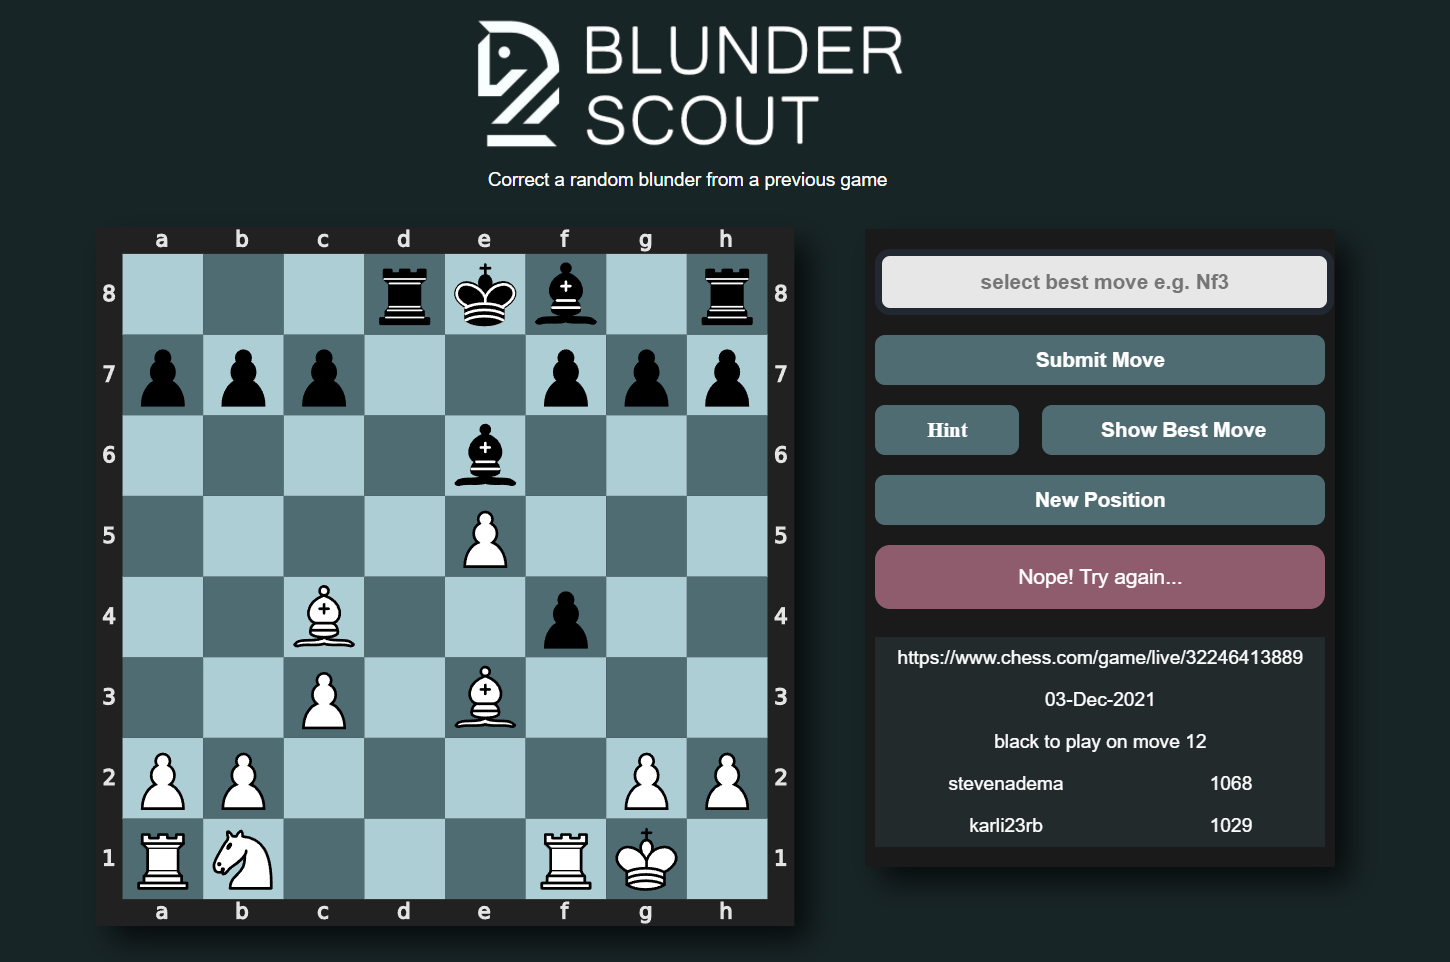
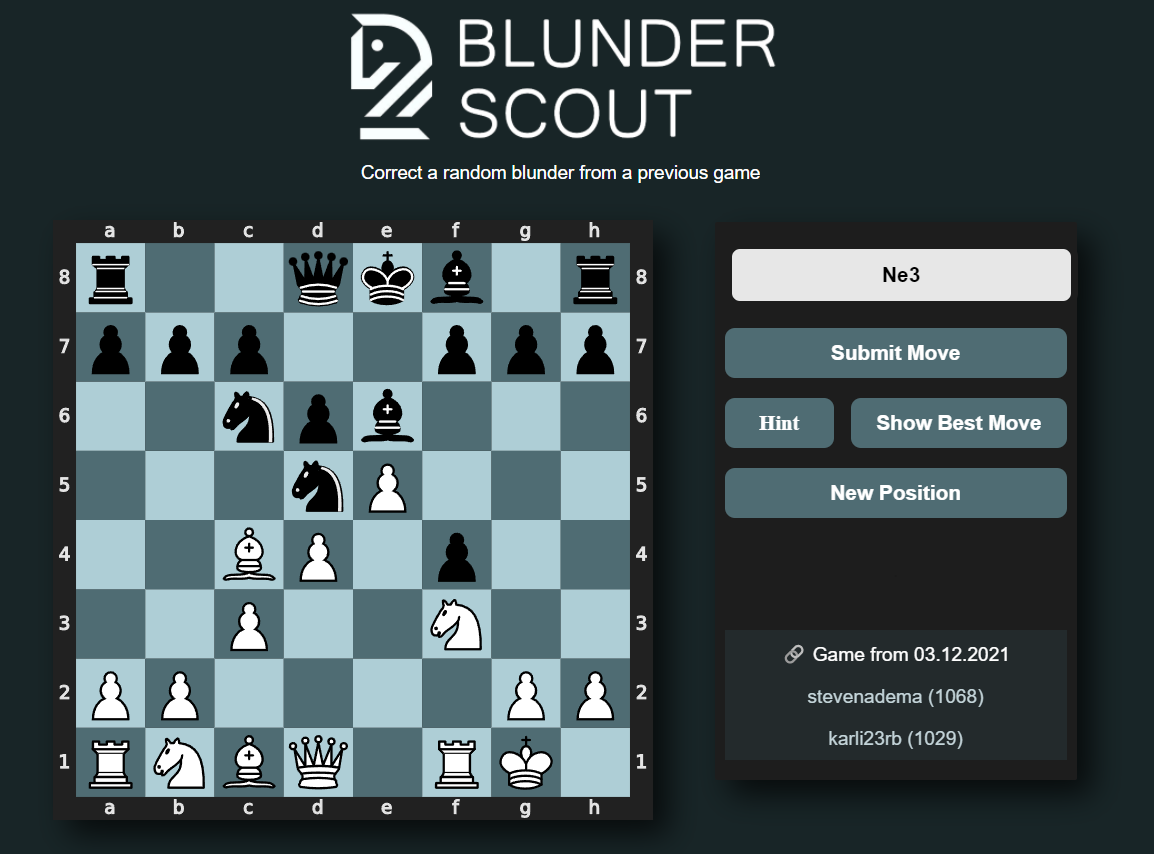
hint and best move added

diff --git a/templates/blunders.html b/templates/blunders.html
@@ -25,8 +25,8 @@ var svg = '{{ svg }}';
             <form action="blunders" method="post" class="form_div" autocomplete="off">
                 <input type="text" id="name_input" name="name_input" placeholder="select best move e.g. Nf3" autocomplete="off">
                 <input type="button" class="button button_submit" value="Submit Move" id="move_submit" onclick="showDiv()"/>
-                <input type="button" class="button button_hint" value="Hint">
-                <input type="button" class="button button_best_move" value="Show Best Move">
+                <input type="button" class="button button_hint" value="Hint" onclick="showHint()">
+                <input type="button" class="button button_best_move" value="Show Best Move" onclick="showBestMove()">
                 <input type="submit" class="button button_new" value="New Position" id="greet">
                 <div style="display:block;" id="temp">.</div>
                 <div style="display:none;" id="hidden_div_correct">Correct! Well done :)</div>
@@ -35,33 +35,46 @@ var svg = '{{ svg }}';
             <br>
         </div>
 <div class="div01"></div>
-<div class="div1"><a href="{{ url }}" target="_blank">{{ url }}</a></div>
-<div class="div2">{{ date }}</div>
-<div class="div3">black to play on move {{ move_no }}</div>
-<div class="div4">{{ user }}</div>
-<div class="div5">{{ user_rating }}</div>
-<div class="div6">{{ opp }}</div>
-<div class="div7">{{ opp_rating }}</div>
+<div class="div1"><a href="{{ url }}" target="_blank">🔗 Game from {{ date }}</a></div>
+<div class="div4">{{ user }} ({{ user_rating }})</div>
+<div class="div6">{{ opp }} ({{ opp_rating }})</div>
 </div>
         </div>
     </div>
     <div class="container3">
 
 <script>
+function onLoad() {
+    document.getElementsByClassName("arrow")[0].style.opacity="0";
+    document.getElementsByClassName("arrow")[1].style.opacity="0";
+}
+
 function showDiv() { 
    let bm = {{ best_move|tojson }};
    let guess = document.getElementById('name_input').value;
-    console.log(guess)
-    console.log(bm)
    if (guess == bm) {
-   document.getElementById('hidden_div_correct').style.display = "block";
-   document.getElementById('hidden_div_wrong').style.display = "none";
-   document.getElementById('temp').style.display = "none";
+        document.getElementById('hidden_div_correct').style.display = "block";
+        document.getElementById('hidden_div_wrong').style.display = "none";
+        document.getElementById('temp').style.display = "none";
    } else{
-   document.getElementById('hidden_div_wrong').style.display = "block";
-   document.getElementById('hidden_div_correct').style.display = "none";
-   document.getElementById('temp').style.display = "none";
+        document.getElementById('hidden_div_wrong').style.display = "block";
+        document.getElementById('hidden_div_correct').style.display = "none";
+        document.getElementById('temp').style.display = "none";
    }
+}
+
+function showHint(){
+    let best_move = {{ best_move_uci|tojson }};
+    console.log(best_move);
+    let best_move_square = best_move.substring(0, 2);
+    console.log(best_move_square);
+
+    document.getElementsByClassName(best_move_square)[0].style.fill="#8f5c6d";
+}
+
+function showBestMove() {
+    document.getElementsByClassName("arrow")[0].style.opacity="0.6";
+    document.getElementsByClassName("arrow")[1].style.opacity="0.6";
 }
 
 </script>

diff --git a/static/css/main.css b/static/css/main.css
@@ -64,7 +64,7 @@ input {
   font-size: 1.3em;
   text-align: center;
   display: block;
-  border: solid 7px #222831;
+  border: solid 7px #1d1d1d;
   background-color: #e7e7e7;
   font-weight: bold;
 }
@@ -91,7 +91,7 @@ input {
 }
 
 #temp {
-    background-color: #1a1a1a;
+    background-color: #1d1d1d;
     color: #1a1a1a;
     text-align: center;
     padding: 20px 0;
@@ -205,19 +205,11 @@ svg {
 }
 
 .game_info {
-  display: grid;
-  width: 95%;
+  display: flexbox;
+  width: 85%;
   border-radius: 2px;
-  grid-template-areas:
-  'div0 div0'
-  'div01 div01'
-  'div1 div1'
-  'div2 div2'
-  'div3 div3'
-  'div4 div5'
-  'div6 div7';
   grid-gap: 0px;
-  background-color: #1a1a1a;
+  background-color: #1d1d1d;
   padding-top: 20px;
   padding-bottom: 20px;
   padding-left: 10px;
@@ -230,16 +222,10 @@ svg {
   text-align: center;
   padding: 10px 0;
   font-size: 1.2em;
-  color: white;
+  color: rgb(196, 213, 218);
 }
 
-.div0 { grid-area: div0; }
-.div01 { grid-area: div01; }
-.div1 { grid-area: div1; }
-.div2 { grid-area: div2; margin:0px;}
-.div3 { grid-area: div3; }
-.div4 { grid-area: div4; }
-.div5 { grid-area: div5; }
-.div6 { grid-area: div6; }
-.div7 { grid-area: div7; }
-
+a:hover {
+    color:  #5db4ca;
+    font-weight: bold;
+}

diff --git a/templates/base.html b/templates/base.html
@@ -5,7 +5,7 @@
     <link rel="stylesheet" href="{{ url_for('static', filename='main.css') }}">
     {% block head %}{% endblock %}
 </head>
-<body>
+<body onload="onLoad()">
     {% block body %}{% endblock %}
 </body>
 </html>

diff --git a/app.py b/app.py
@@ -28,8 +28,8 @@ def greeter():
     df = df[df['difs'] > 80]
     df = df.sample()
     move_no = df['move_no'].values[0]
-    my_move = str(df['my_move_uci'].values[0])
-    best_move = str(df['best_move_uci'].values[0])
+    best_move = str(df['best_move_san'].values[0])
+    best_move_uci = str(df['best_move_uci'].values[0])
     fen = df['fen_x'].values[0]
     url = df['url'].values[0]
     user = df['user_username'].values[0]
@@ -40,7 +40,7 @@ def greeter():
     url = df['url'].values[0]
     date = df['end_time'].values[0]
     date = pd.to_datetime(str(date))
-    date = date.strftime('%d-%b-%Y')
+    date = date.strftime('%d.%m.%Y')
     print(best_move)
     content = {
         'url':url,
@@ -50,11 +50,21 @@ def greeter():
         'opp_rating':opp_rating,
         'move_no':move_no,
         'date':date,
-        'best_move':best_move
+        'best_move':best_move,
+        'best_move_uci':best_move_uci
+
     }
 
     board = chess.Board(fen) 
-    board_svg = chess.svg.board(board, colors={'square light': '#aeced6', 'square dark': '#4f6c73'})
+
+    bm_from = chess.parse_square(name=best_move_uci[0:2])
+    bm_to = chess.parse_square(name=best_move_uci[2:4])
+
+    board_svg = chess.svg.board(board, colors={'square light': '#aeced6', 'square dark': '#4f6c73'}, arrows=[(bm_from,bm_to)])
+    file = open("svg.txt", "w")
+    file.write(board_svg)
+    file.close()
+
 
     flash("Position from game played on Full game details here: " + url)
     return render_template("blunders.html", svg=board_svg, **content)
